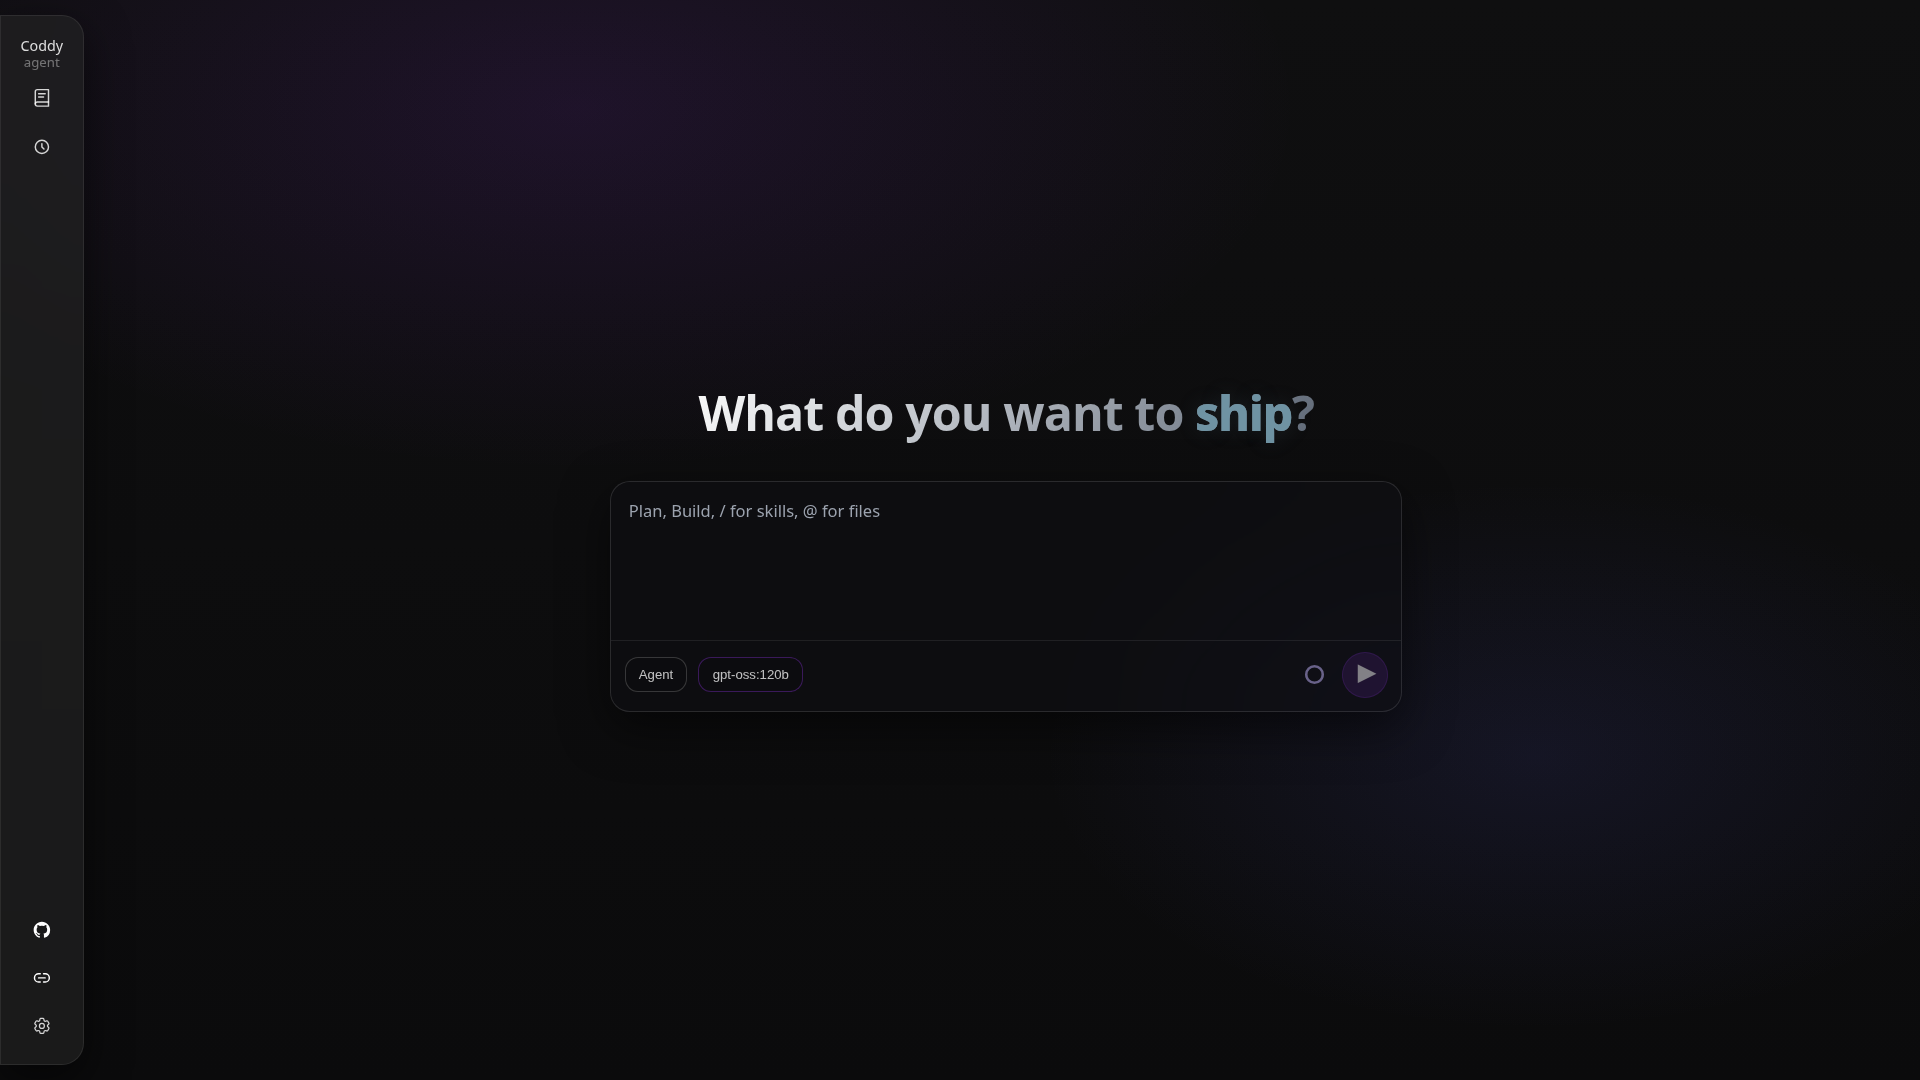
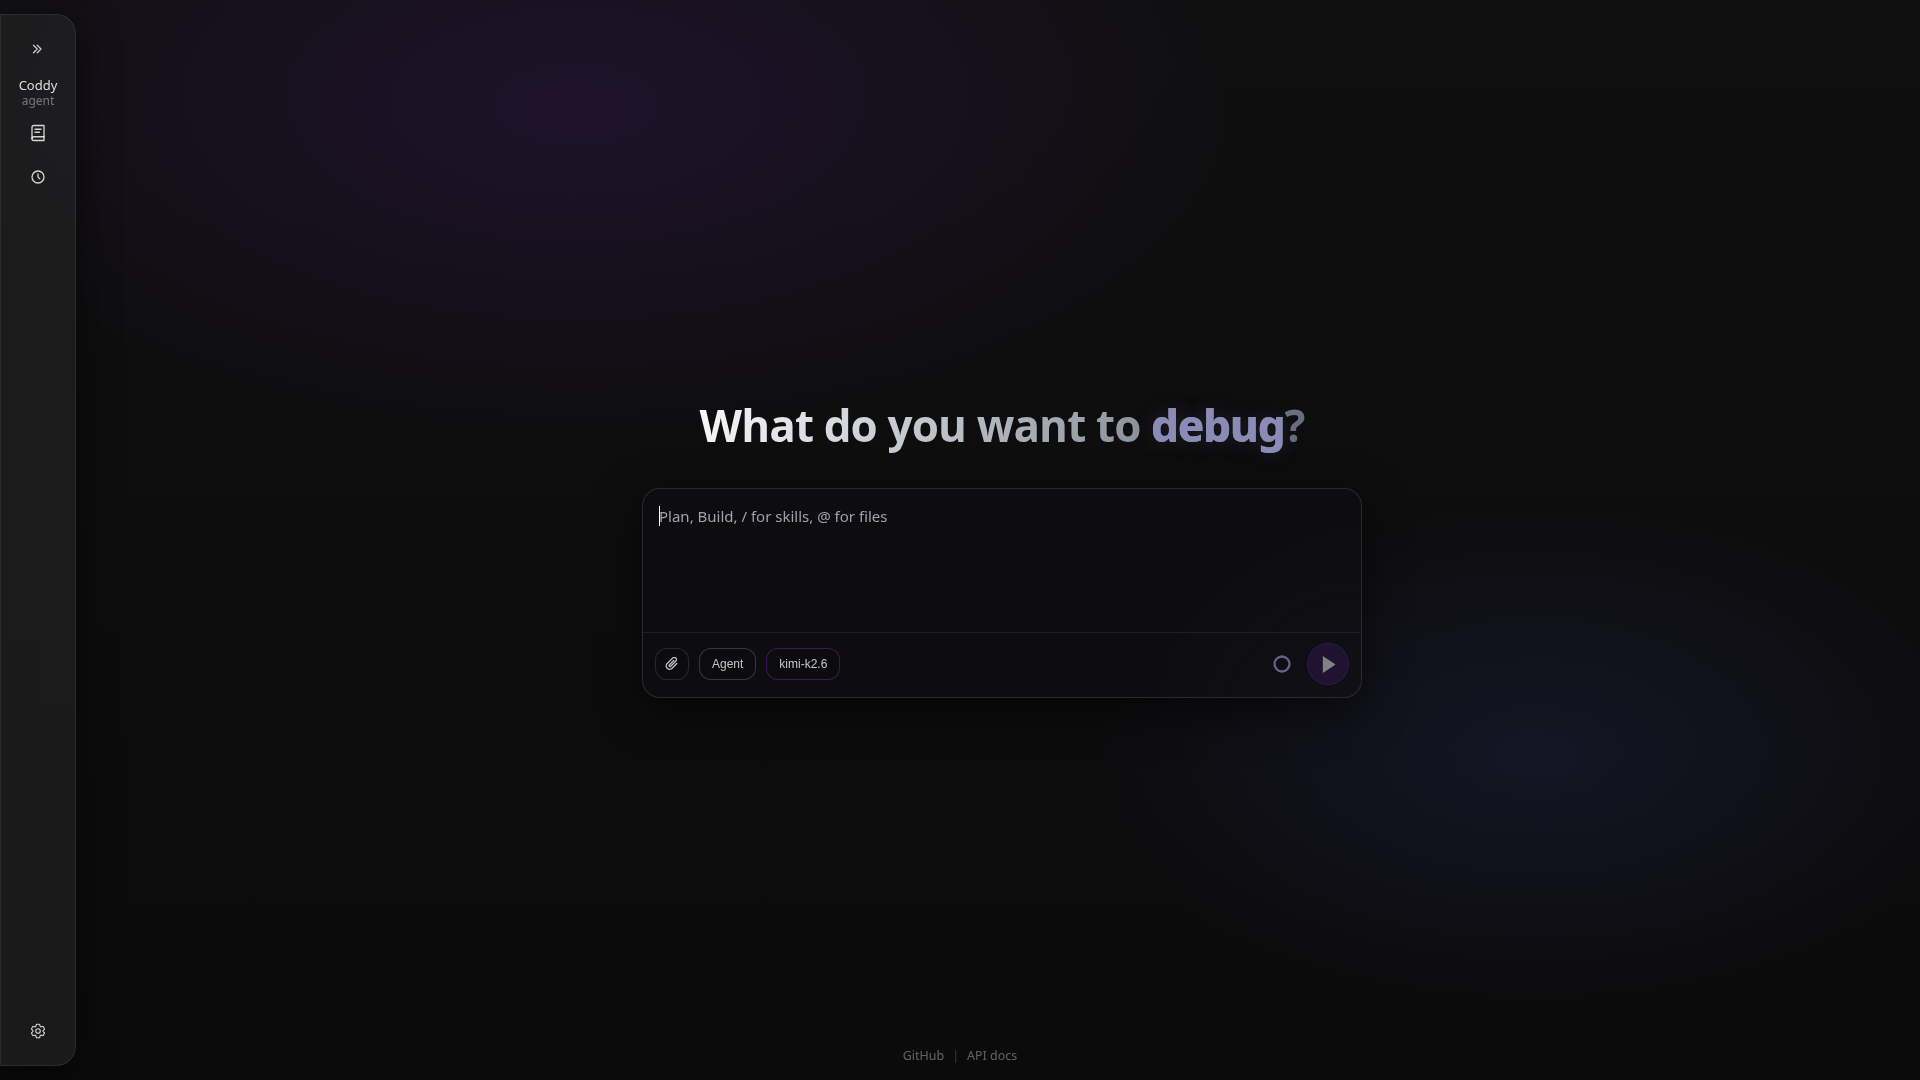
Images updated

diff --git a/index.html b/index.html
@@ -132,7 +132,7 @@
         </a>
         <a class="glass feature feature-link" href="https://github.com/coddy-project/coddy-agent/blob/main/docs/ui.md" target="_blank" rel="noopener noreferrer">
           <h3>UI</h3>
-          <p>Embedded SPA at <code>/</code> with <code>http,ui</code>. Chat, sessions, plan documents, scheduler drawer, settings.</p>
+          <p>Embedded SPA at <code>/</code> with <code>http,ui</code>. Chat, sessions, plan documents, scheduler drawer, settings, multimodal file attachments.</p>
         </a>
         <a class="glass feature feature-link" href="https://github.com/coddy-project/coddy-agent/blob/main/docs/rules.md" target="_blank" rel="noopener noreferrer">
           <h3>Rules</h3>
@@ -157,6 +157,10 @@
         <a class="glass feature feature-link" href="https://github.com/coddy-project/coddy-agent/blob/main/external/memory/README.md" target="_blank" rel="noopener noreferrer">
           <h3>Memory</h3>
           <p>Optional long-term memory copilot and session memory routes.</p>
+        </a>
+        <a class="glass feature feature-link" href="https://github.com/coddy-project/coddy-agent/blob/main/docs/ui.md#composer-file-attachments-multimodal" target="_blank" rel="noopener noreferrer">
+          <h3>Multimodal</h3>
+          <p>Attach images and files in the composer when the model supports it. Assets saved to the session directory and injected into the agent context.</p>
         </a>
       </div>
     </section>